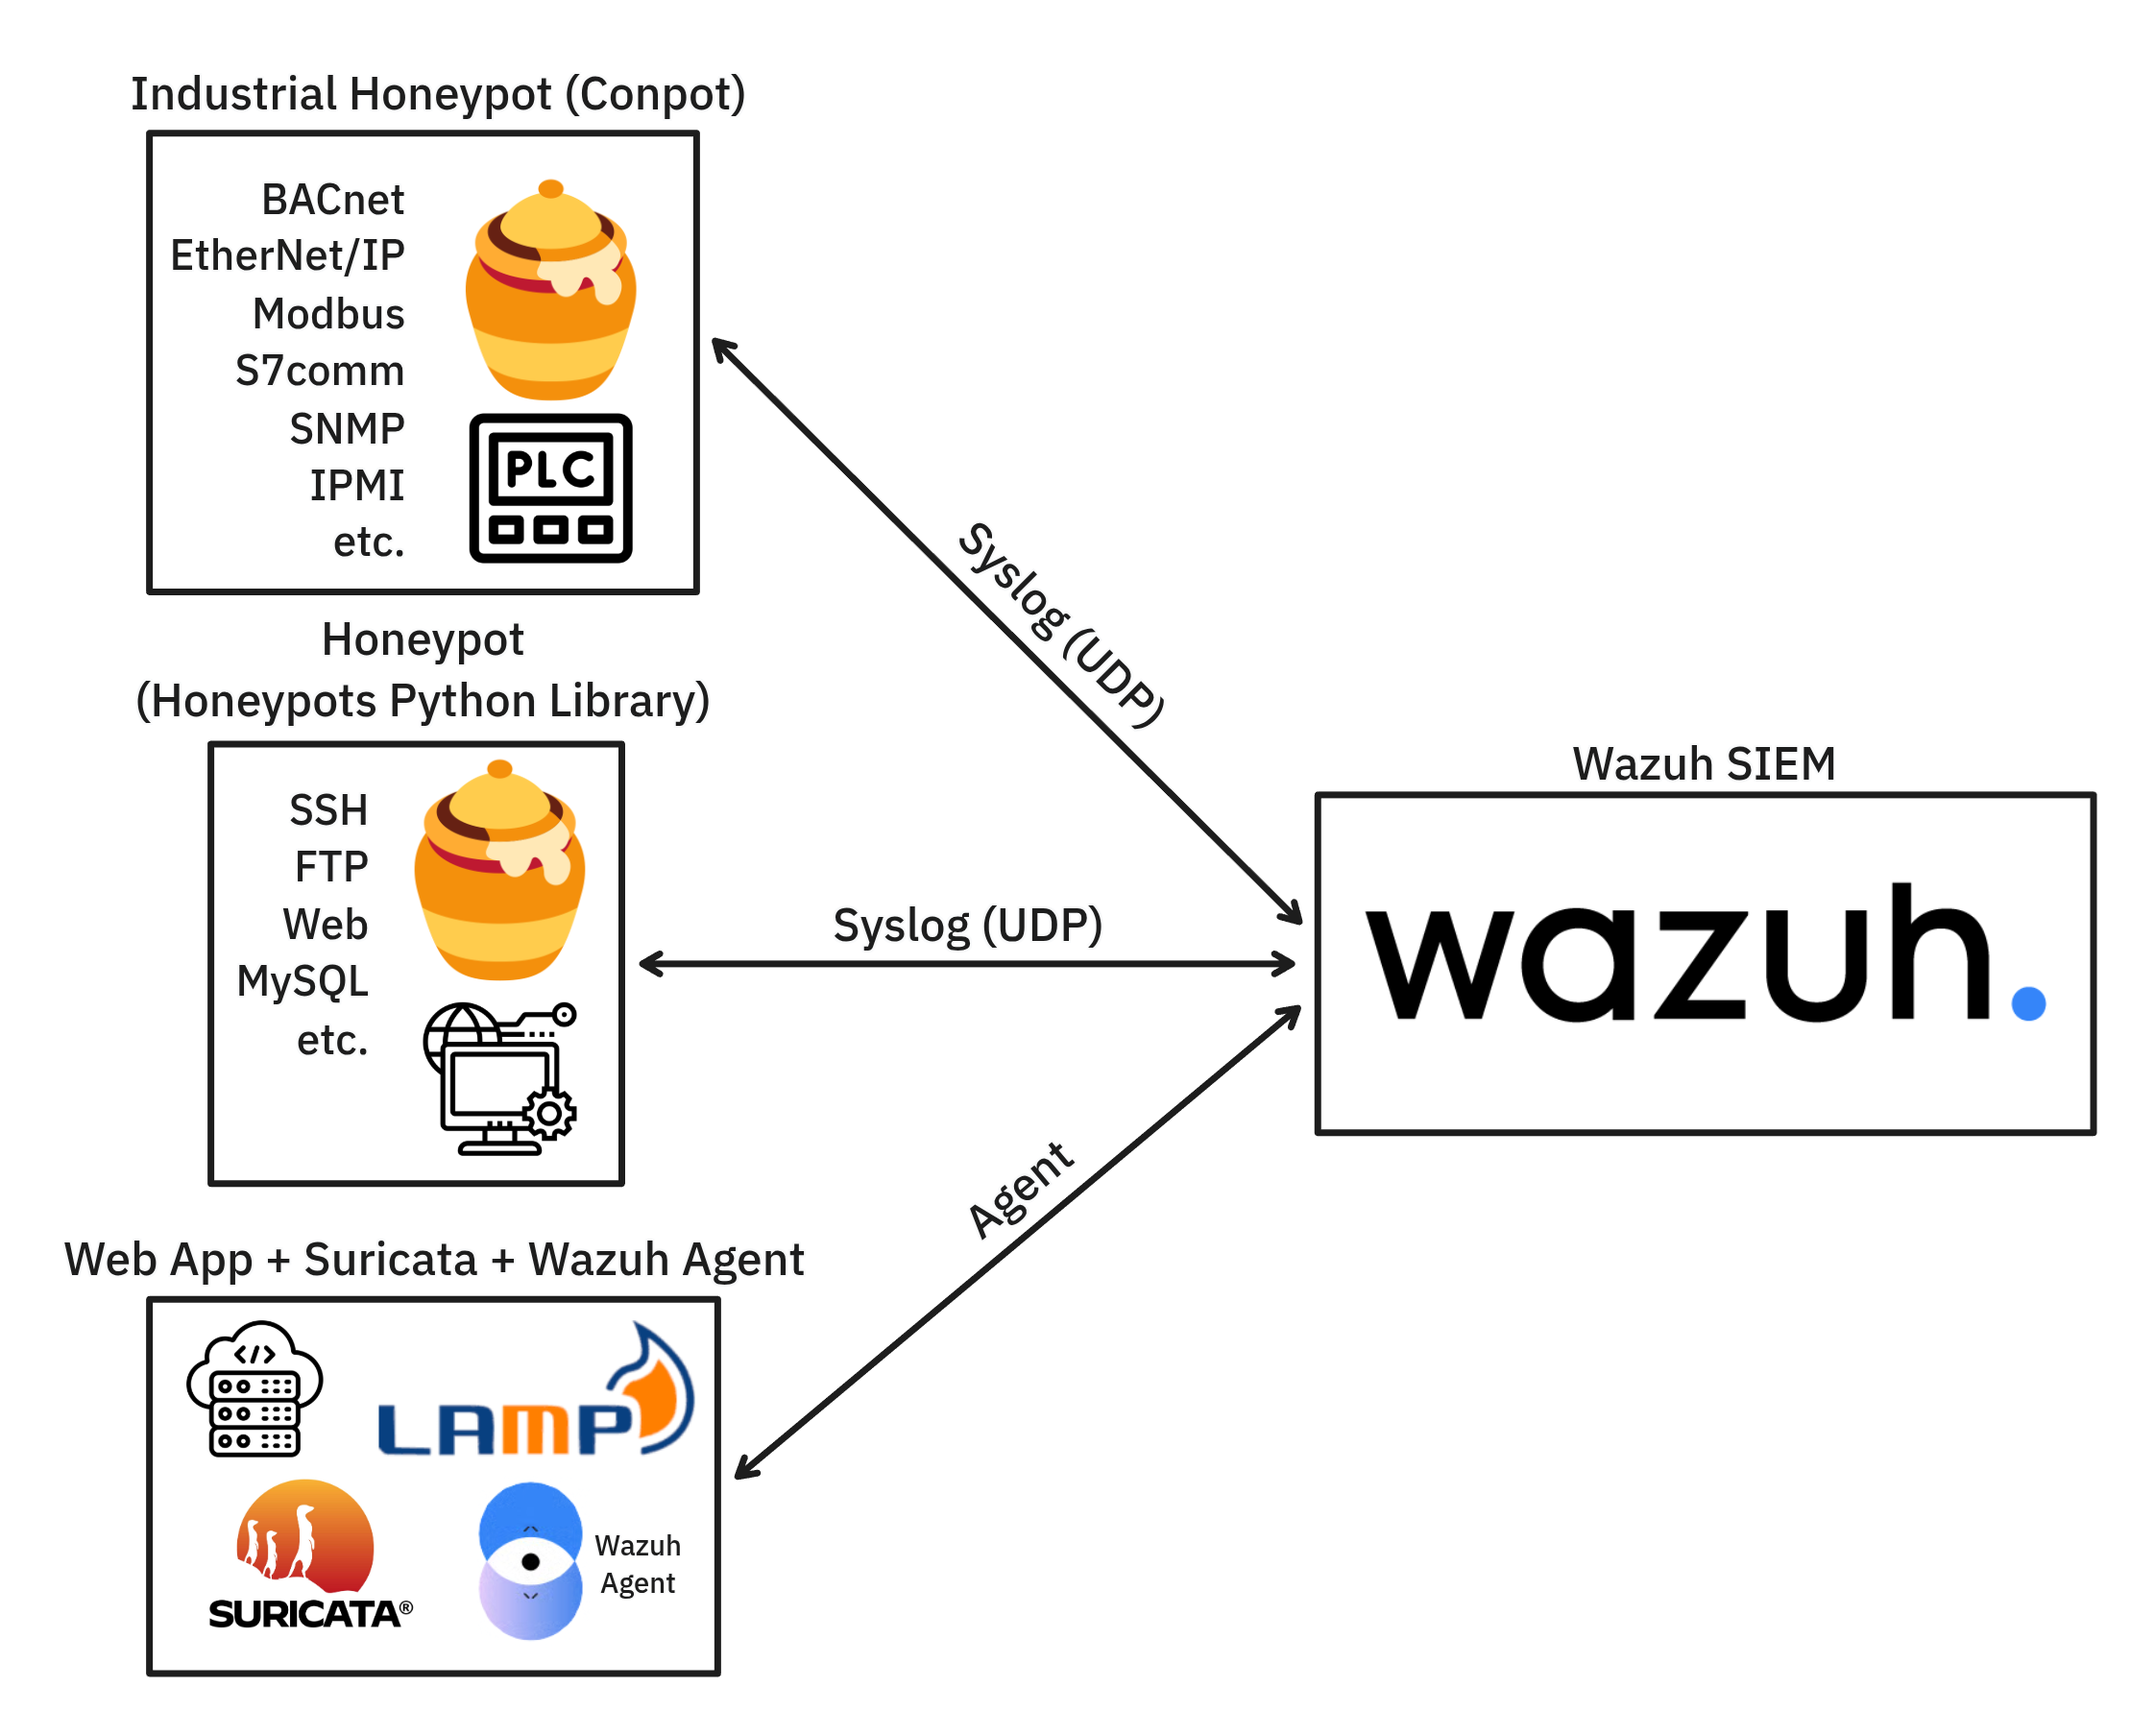
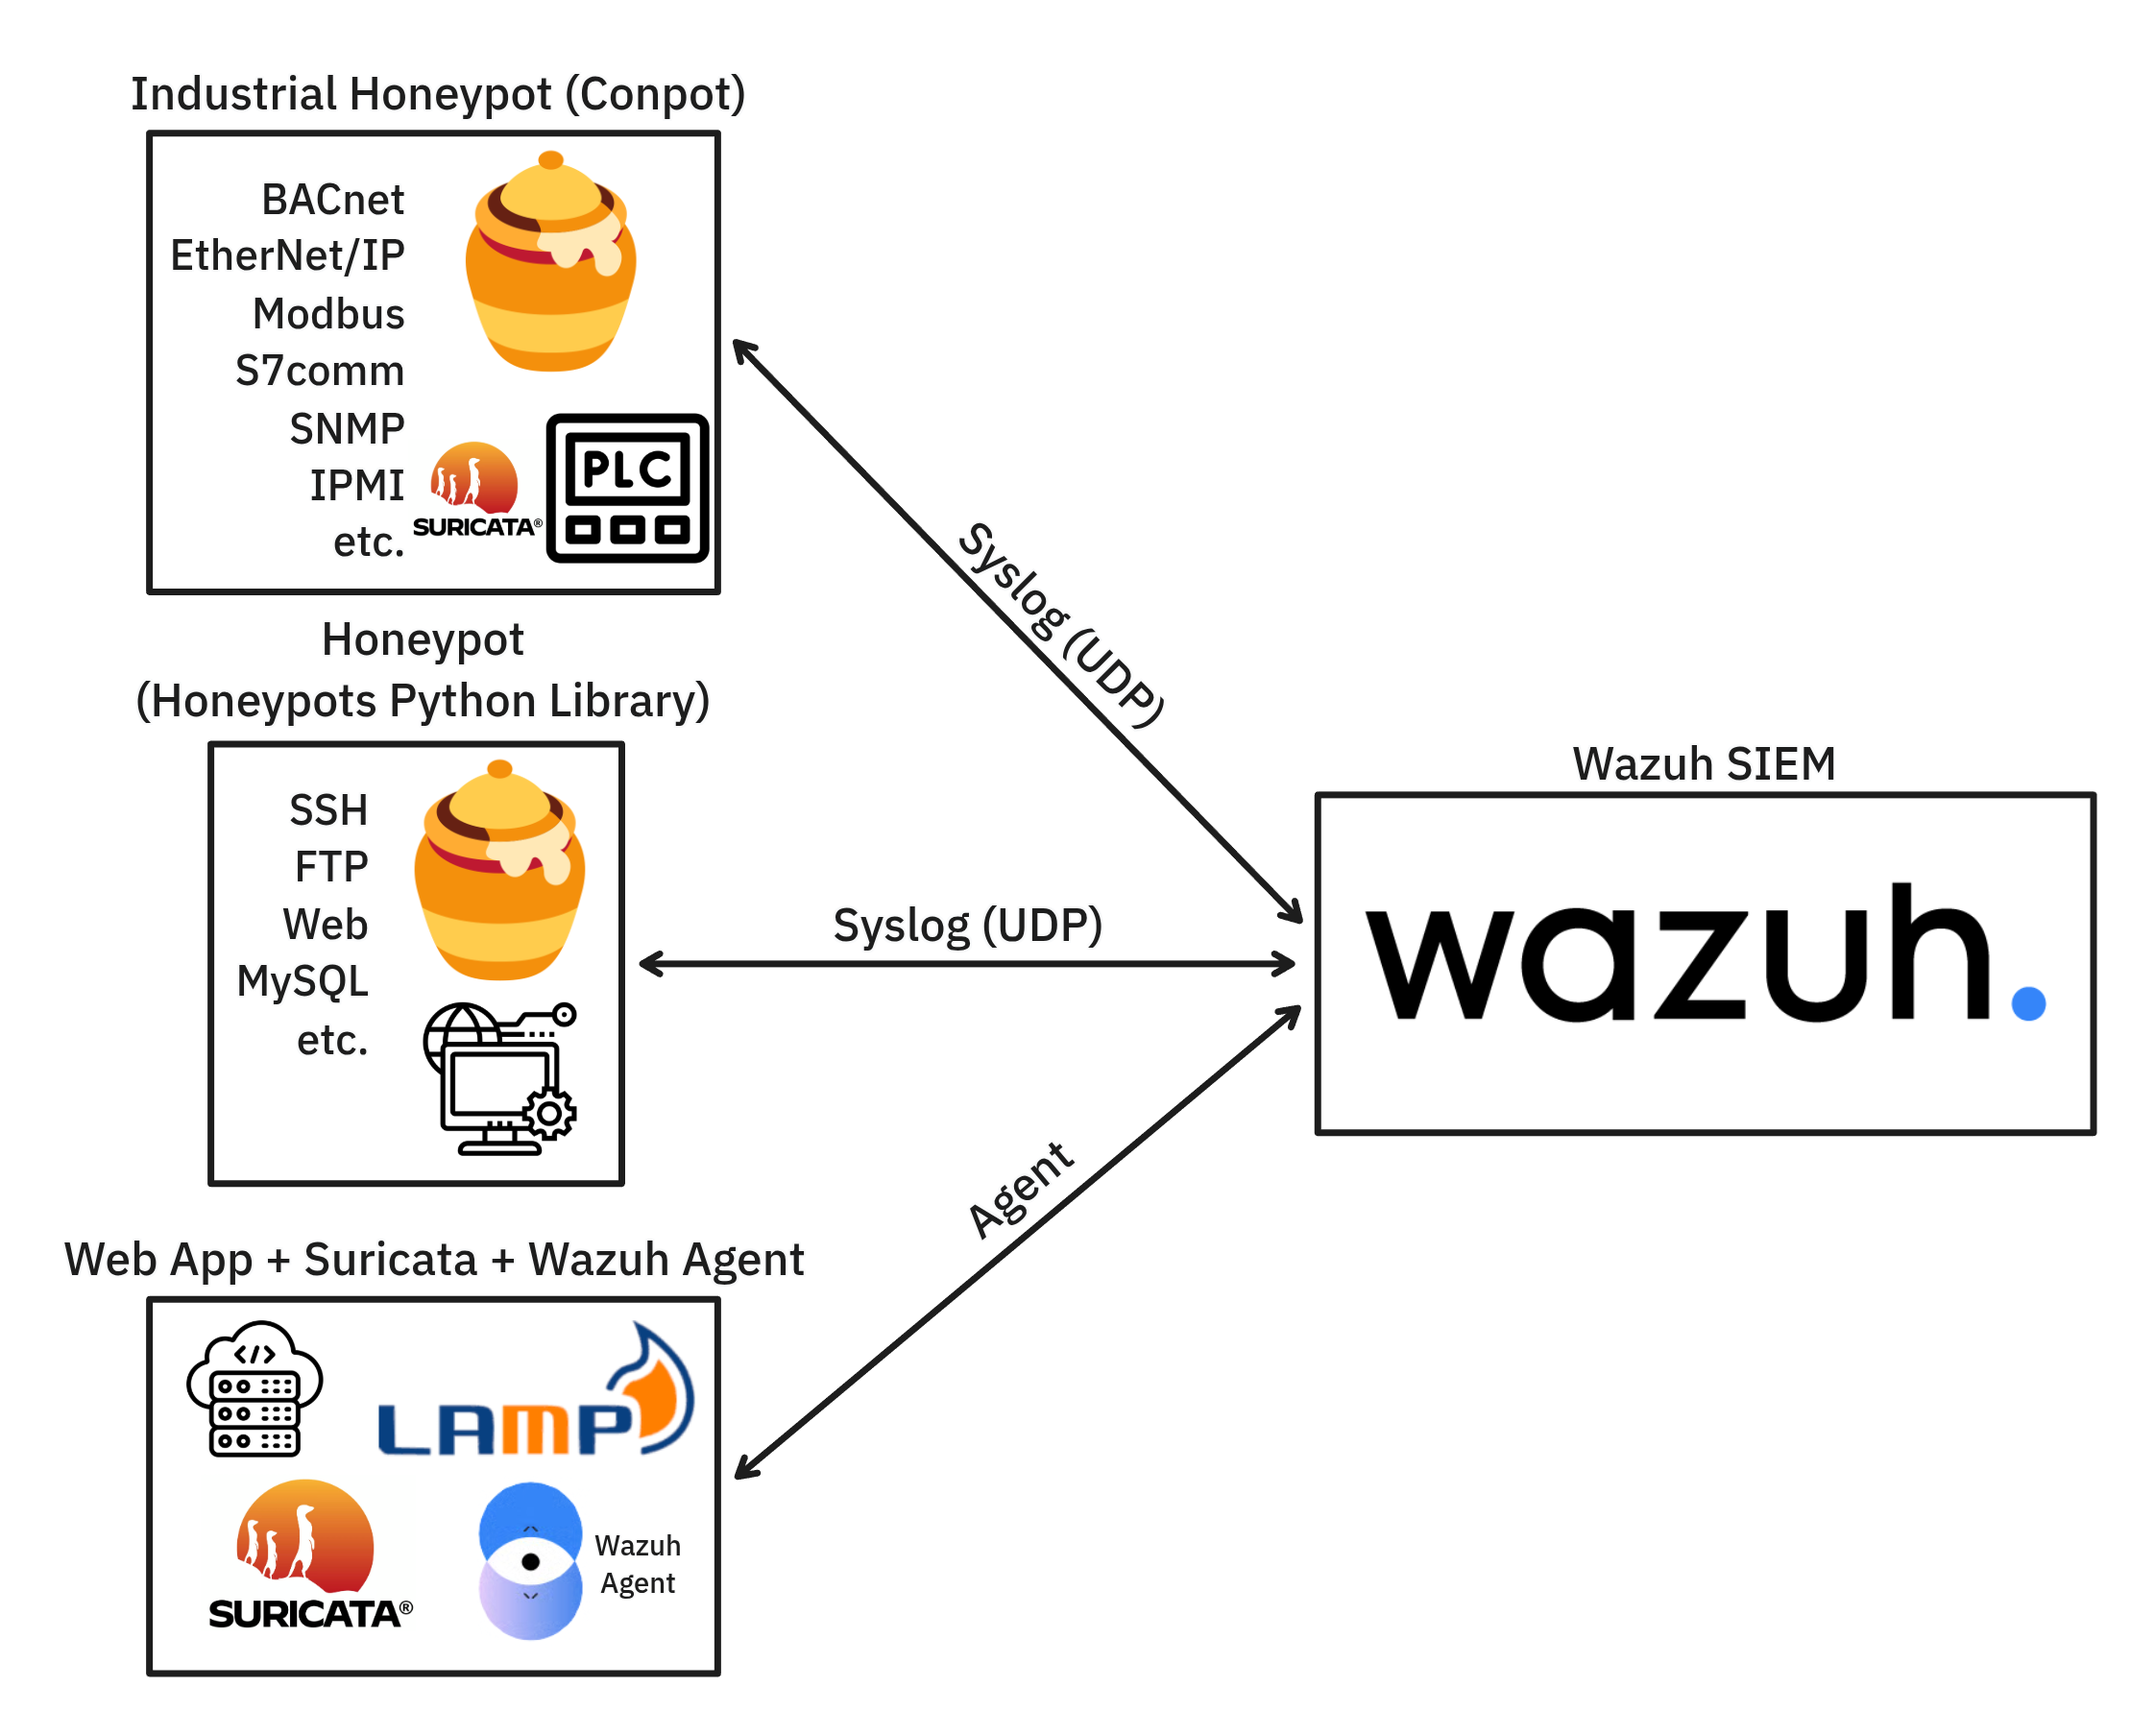
Update README.md and architecture image

diff --git a/README.md b/README.md
@@ -13,13 +13,17 @@ The figure below shows the general architecture of the implemented SOC.
 
 ## Main Services
 - **honeypot/**: honeypot for several services
-- **test/**: attempts to access some honeypot services (SSH, FTP, MySQL) and Web App exploitation using Sqlmap
+- **industrial-honeypot/**: honeypot for several industrial services
+- **test/**: attempts to access some honeypot services (SSH, FTP, MySQL, ...), some industrial services (BACnet, Modbus, SNMP, ...), replay the traffic of PCAPs (if present), and Web App exploitation using Sqlmap
 - **setup-wazuh/**: uploads custom rules and decoders into Wazuh, as well as modifies its configuration, all via API
 - **web-application-with-wazuh/**: vulnerable PHP application + database + Suricata + Wazuh agent + honeyfiles
 
 ## Main Files
 - `docker-compose.yml`: defines and orchestrates all containers
 - `clone-and-setup-wazuh.sh`: clones the Wazuh-Docker repository and generates the required certificates
+
+## Pcaps
+If you want to test Suricata detection capabilities of industrial protocols, you can place one or more PCAP files in the [pcaps folder](test/pcaps/). IPs will automatically be rewritten with `tcprewrite` to send all traffic to industrial honeypot's Suricata (through `tcpreplay`), which will analyze it and report anomalies to Wazuh.
 
 ## Startup
 ```bash
